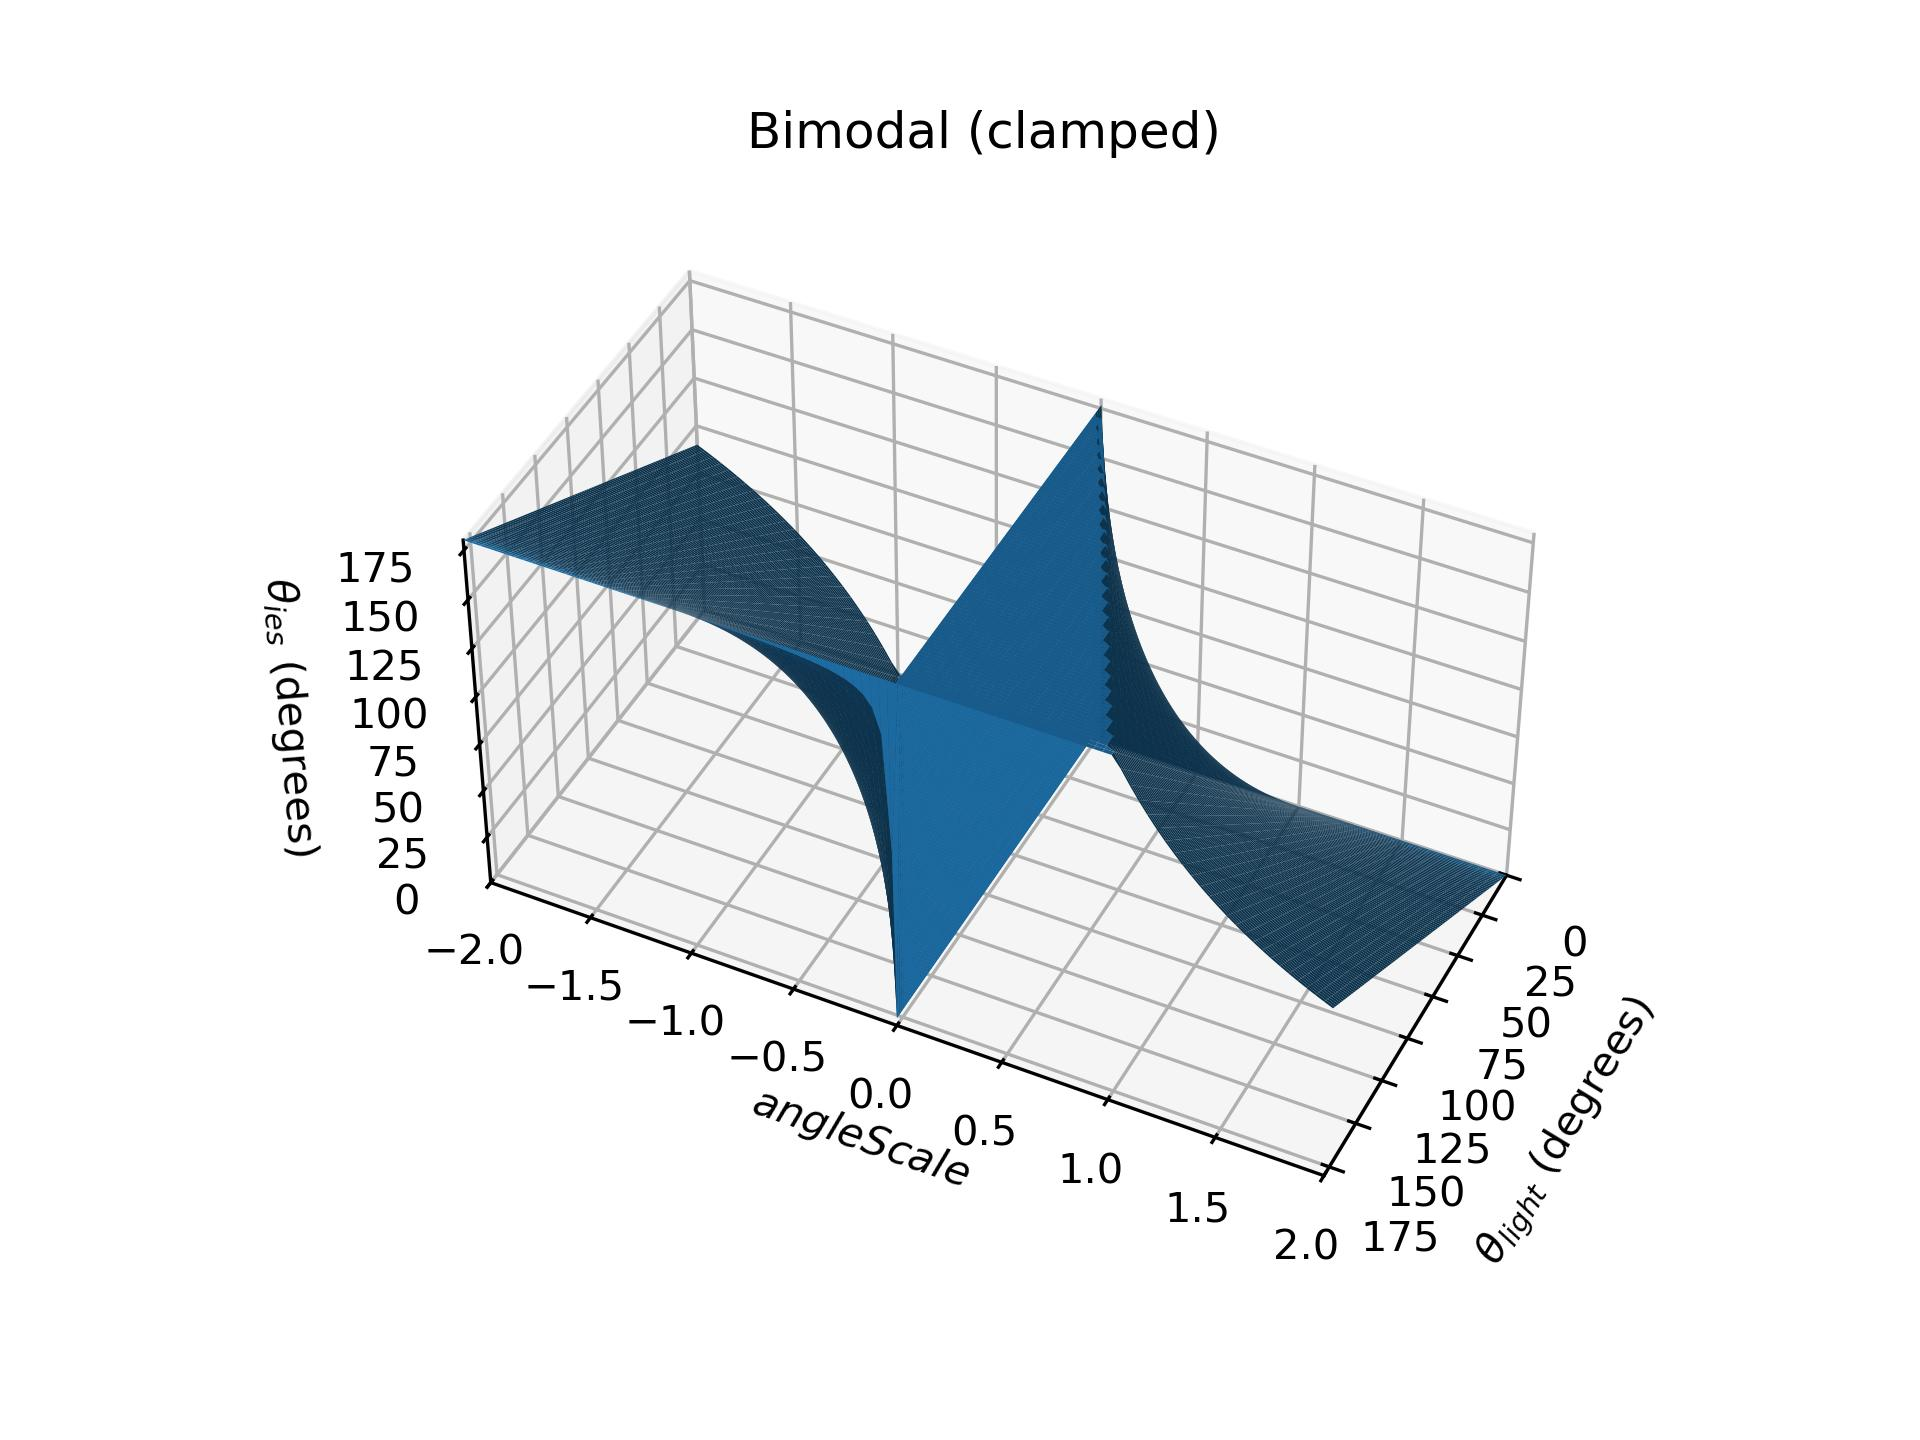
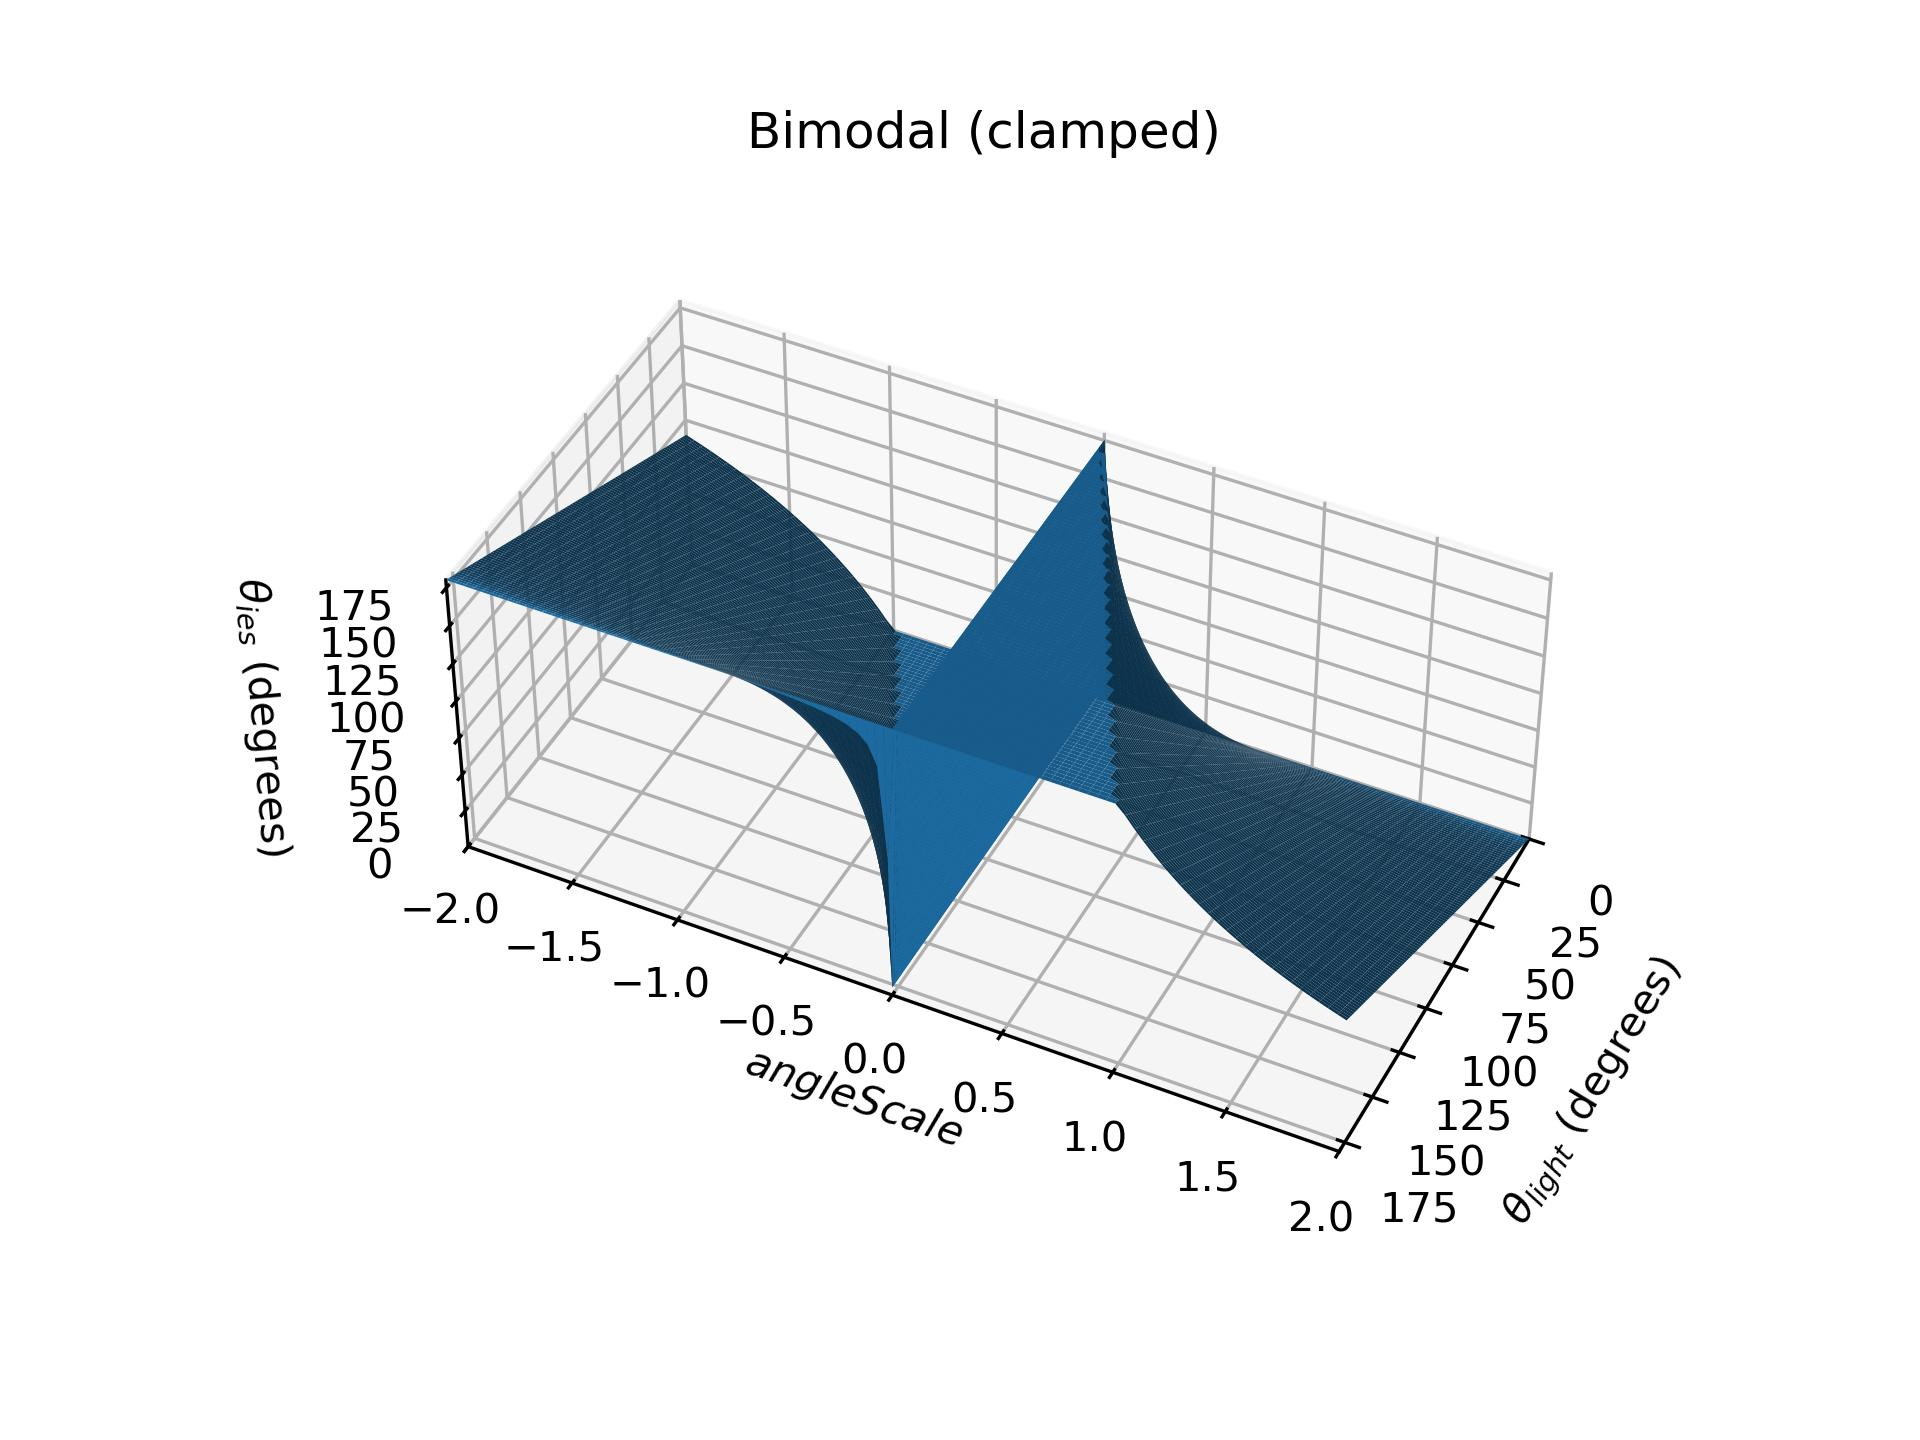
render bimodal graphs from -2 to +2, in .25 increments

Changed region(s): [[0.125, 0.1875, 0.875, 0.875]]

diff --git a/pxr/usd/usdLux/iesAngleScale/angleScale_formulas.py b/pxr/usd/usdLux/iesAngleScale/angleScale_formulas.py
@@ -62,14 +62,20 @@ class ViewAngles:
     def set_on_axes(self, axes):
         if self.is_null():
             return
+        if not hasattr(axes, "view_init"):
+            return
         axes.view_init(elev=self.elev, azim=self.azim, roll=self.roll)
+
+BIMODAL_VIEW_ANGLE = ViewAngles(azim=25.97402597402598, elev=42.792207792207805)
+DEFAULT_VIEW_ANGLE = ViewAngles()
+
 
 @dataclasses.dataclass(frozen=True)
 class GraphOptions:
     theta_min_max: Tuple[float, float] = THETA_MIN_MAX
     angleScale_min_max: Tuple[float, float] = ANGLESCALE_MIN_MAX
     box_aspect: Tuple[float, float, float] = (1, 1, 1)
-    view_angles: ViewAngles = ViewAngles()
+    view_angles: ViewAngles = DEFAULT_VIEW_ANGLE
 
     def set_on_graph(self, graph):
         axes = graph.ax
@@ -82,12 +88,16 @@ class GraphOptions:
             axes.set_ylim(*self.angleScale_min_max)
             axes.set_zlim(*self.theta_min_max)
             axes.set_zlabel(THETA_OUTPUT_LABEL)
+            if self.box_aspect != (1, 1, 1):
+                print(f"{self.box_aspect=}")
+                axes.set_box_aspect(self.box_aspect)
         else:
             axes.set_ylim(*self.theta_min_max)
             axes.set_ylabel(THETA_OUTPUT_LABEL)
-
-        if self.box_aspect != (1, 1, 1):
-            axes.set_box_aspect(self.box_aspect)
+            aspect = (self.box_aspect[0], self.box_aspect[2])
+            if aspect != (1, 1):
+                aspectRatio = aspect[1] / aspect[0]
+                axes.set_aspect(aspectRatio)
 
         self.view_angles.set_on_axes(axes)
 
@@ -97,20 +107,13 @@ class GraphOptions:
     def angleScale_lim(self):
         return (angleScale,) + self.angleScale_min_max
 
-    def make_graph(self, function, title):
-        num_symbols = len(function.free_symbols)
-        if num_symbols == 1:
-            is3d = False
-        elif num_symbols == 2:
-            is3d = True
-        else:
-            raise ValueError(num_symbols)
+    def make_graph2d(self, function, title):
+        graph = spb.plot(function, self.theta_lim(), show=False, title=title)
+        self.set_on_graph(graph)
+        return graph
 
-        if is3d:
-            graph = spb.plot3d(function, self.theta_lim(), self.angleScale_lim(), show=False, title=title)
-        else:
-            graph = spb.plot(function, self.theta_lim(), show=False, title=title)
-
+    def make_graph3d(self, function, title):
+        graph = spb.plot3d(function, self.theta_lim(), self.angleScale_lim(), show=False, title=title)
         self.set_on_graph(graph)
         return graph
 
@@ -130,14 +133,17 @@ def save_graph(graph, filename, dpi=300):
     graph.fig.savefig(filepath, dpi=dpi)
 
 
-def save_graph_slices(function, title, filename, graph_options=DEFAULT_GRAPH):
-    for i in range(-100, 101, 25):
-        angleScale_val = i / 100
+def save_graph_slices(function, title, filename, num_slices, graph_options=DEFAULT_GRAPH):
+    start, end = graph_options.angleScale_min_max
+    dist = end - start
+    step = dist / (num_slices - 1)
+    for i in range(num_slices):
+        angleScale_val = round((i * step) + start, 6)
         angleScale_str = f"{angleScale_val:+.02f}"
         title_i = f"{title} (angleScale = {angleScale_str})"
         filename_i = f"{filename}_{angleScale_str}"
         slice_func = function.subs(angleScale, angleScale_val)
-        graph = graph_options.make_graph(slice_func, title=title_i)
+        graph = graph_options.make_graph2d(slice_func, title=title_i)
         if any(
             isinstance(x, sympy.core.numbers.ComplexInfinity)
             for x in slice_func.atoms()
@@ -161,8 +167,8 @@ def save_graph_slices(function, title, filename, graph_options=DEFAULT_GRAPH):
         plt.close(graph.fig)
 
 
-def plot3d_and_save(function, title, slices=False, graph_options=DEFAULT_GRAPH):
-    graph = graph_options.make_graph(function, title=title)
+def plot3d_and_save(function, title, slices=0, graph_options=DEFAULT_GRAPH):
+    graph = graph_options.make_graph3d(function, title=title)
     filename = f"ies_angleScale_{title}"
     filename = filename.replace(" - ", "-")
     filename = filename.replace("/", "over")
@@ -172,7 +178,7 @@ def plot3d_and_save(function, title, slices=False, graph_options=DEFAULT_GRAPH):
 
     save_graph(graph, filename)
     if slices:
-        save_graph_slices(function, title, filename, graph_options=graph_options)
+        save_graph_slices(function, title, filename, num_slices=slices, graph_options=graph_options)
     return graph
 
 
@@ -199,8 +205,7 @@ karma_pos_clamp = Clamp(
 
 # karma_graph = plot3d_and_save(karma, "Karma (unclamped)")
 
-# karma_clamp_graph = plot3d_and_save(karma_clamp, "Karma (clamped)", slices=True)
-# save_graph_slices(karma_clamp, "ies_angleScale_karma_clamped")
+karma_clamp_graph = plot3d_and_save(karma_clamp, "Karma (clamped)", slices=9)
 
 # karma_pos_clamp_graph = plot3d_and_save(
 #     karma_pos_clamp, "Karma - theta / (1-angleScale) only (clamped)"
@@ -212,7 +217,7 @@ rman_clamp = Clamp(sympy.Piecewise((rman, angleScale > -1), (0, True)), 0, THETA
 
 # rman_graph = plot3d_and_save(rman, "Renderman (unclamped)")
 
-# rman_clamp_graph = plot3d_and_save(rman_clamp, "Renderman (clamped)", slices=True)
+rman_clamp_graph = plot3d_and_save(rman_clamp, "Renderman (clamped)", slices=9)
 
 
 # if angleScale > 0, scale origin is at bottom (vangle=0)
@@ -222,20 +227,21 @@ rman_clamp = Clamp(sympy.Piecewise((rman, angleScale > -1), (0, True)), 0, THETA
 bimodal_pos = theta / angleScale
 bimodal_neg = ((theta - THETA_MAX) / -angleScale) + THETA_MAX
 bimodal_neg_clamp = Clamp(bimodal_neg, 0, THETA_MAX)
-# bimodal_neg_clamp_graph = plot3d_and_save(bimodal_neg_clamp, "Bimodal Neg (Clamped)", slices=False, angleScale_min_max=(-1, 0))
+# bimodal_neg_clamp_graph = plot3d_and_save(bimodal_neg_clamp, "Bimodal Neg (Clamped)", slices=9, angleScale_min_max=(-1, 0))
 
 bimodal = sympy.Piecewise((bimodal_pos, angleScale > 0), (bimodal_neg, angleScale < 0), (theta, True))
 bimodal_clamp = Clamp(bimodal, 0, THETA_MAX)
 
+
 bimodal_options = GraphOptions(
     angleScale_min_max=(-2, 2),
-    box_aspect=(1, 2, 1),
-    view_angles=ViewAngles(azim=25.97402597402598, elev=42.792207792207805))
+    box_aspect=(4, 8, 3),
+    view_angles=BIMODAL_VIEW_ANGLE)
 
 bimodal_clamp_graph = plot3d_and_save(
     bimodal_clamp,
     "Bimodal (clamped)",
-    slices=False,
+    slices=17,
     graph_options=bimodal_options,
 )
 
